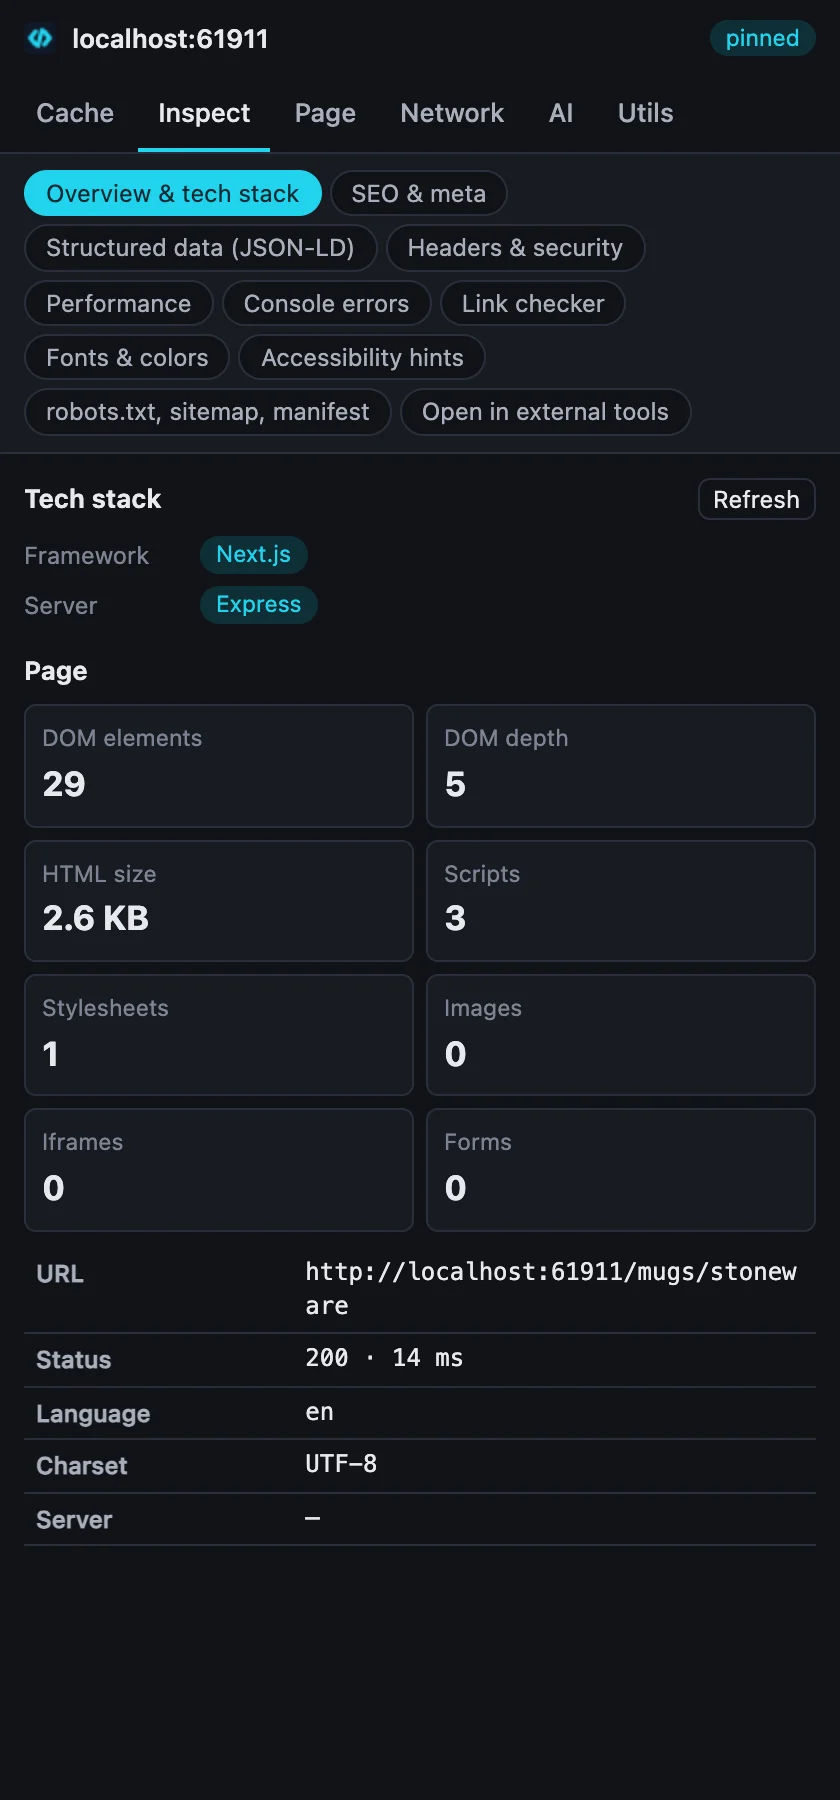
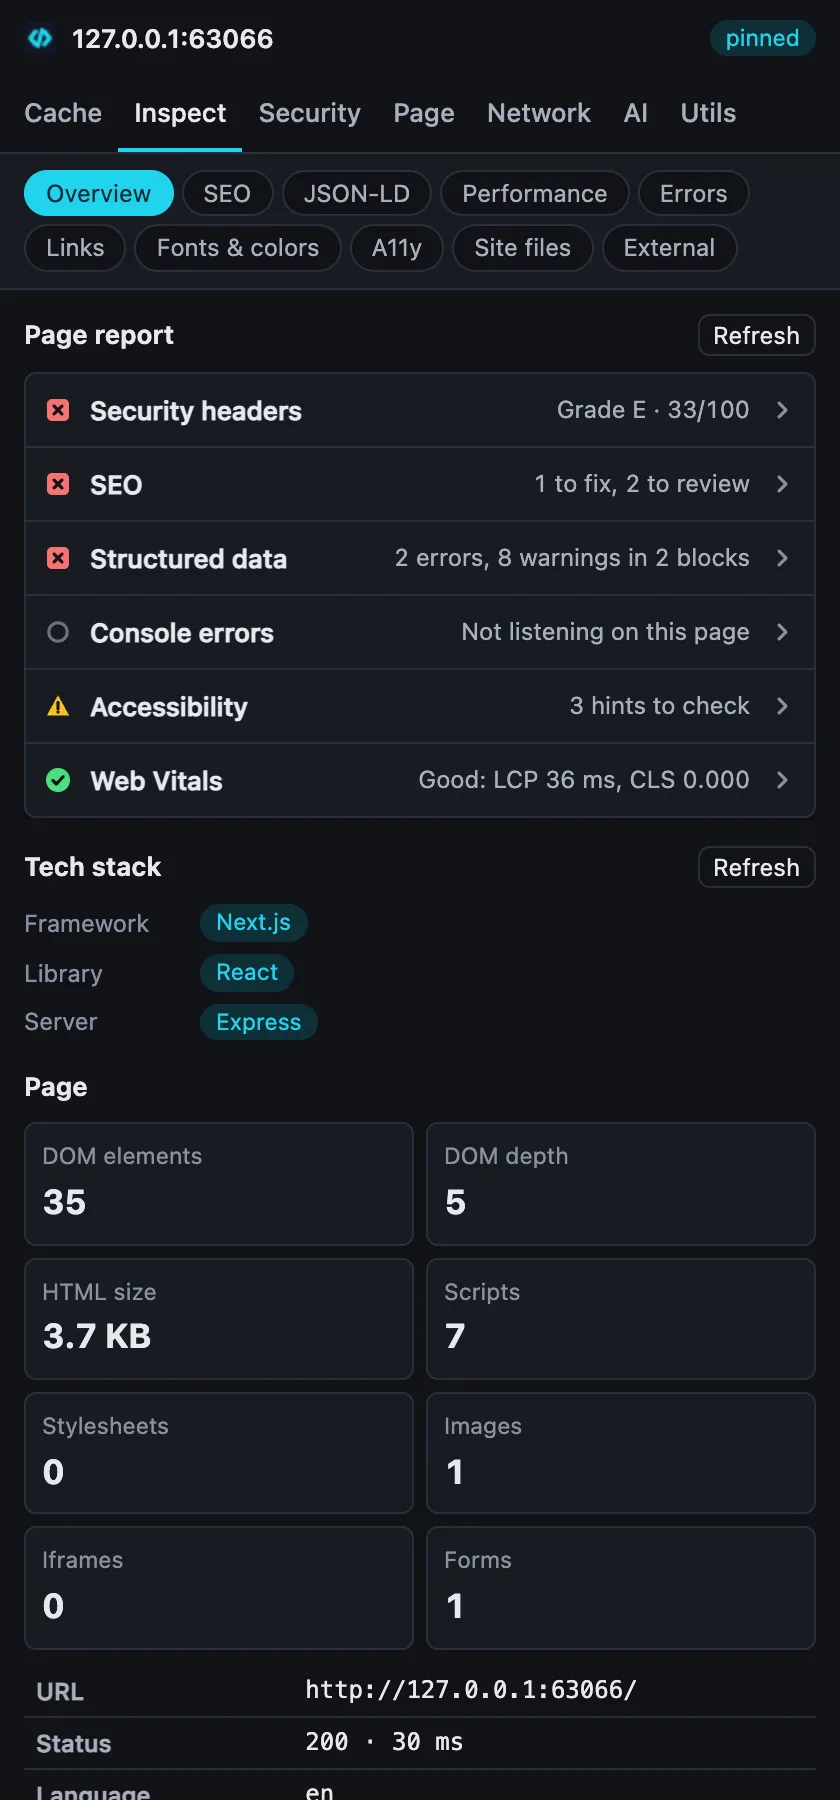
docs(site): seven tabs, the page report and the Security tab in the tour

diff --git a/site/index.html b/site/index.html
@@ -113,23 +113,24 @@
 
       <section id="tour" class="tour" aria-labelledby="tour-title">
         <div class="sec-head">
-          <h2 id="tour-title">Six tabs. The tools you open forty times a day.</h2>
+          <h2 id="tour-title">Seven tabs. The tools you open forty times a day.</h2>
           <p>The same tab bar as the extension. Pick one.</p>
         </div>
         <div class="tour-body">
           <div class="tabs" role="tablist" aria-label="devkit tabs">
             <button role="tab" id="t-cache" aria-controls="tp" aria-selected="false" data-cat="cache">Cache</button>
             <button role="tab" id="t-inspect" aria-controls="tp" aria-selected="true" data-cat="inspect">Inspect</button>
+            <button role="tab" id="t-security" aria-controls="tp" aria-selected="false" data-cat="security">Security</button>
             <button role="tab" id="t-page" aria-controls="tp" aria-selected="false" data-cat="page">Page</button>
             <button role="tab" id="t-network" aria-controls="tp" aria-selected="false" data-cat="network">Network</button>
             <button role="tab" id="t-ai" aria-controls="tp" aria-selected="false" data-cat="ai">AI</button>
             <button role="tab" id="t-utils" aria-controls="tp" aria-selected="false" data-cat="utils">Utils</button>
           </div>
           <div id="tp" class="tab-panel" role="tabpanel" aria-labelledby="t-inspect" tabindex="0">
-            <img id="tour-shot" src="img/panel-headers.webp" width="420" height="900" alt="devkit Inspect tab: headers and security grade." />
+            <img id="tour-shot" src="img/panel-overview.webp" width="420" height="900" alt="devkit Inspect tab: the page report, one row per area with its status." />
             <div class="tab-copy">
               <h3 id="tour-title-cat">Inspect</h3>
-              <p id="tour-lede">What the page ships, read from the page itself: stack, SEO, structured data, headers, Web Vitals, errors, links.</p>
+              <p id="tour-lede">What the page ships, read from the page itself: a page report, stack, SEO, structured data, Web Vitals, errors, links.</p>
               <ul id="tour-list" class="tool-list"></ul>
             </div>
           </div>

diff --git a/site/app.js b/site/app.js
@@ -137,8 +137,9 @@ if (input) {
 /* Tour */
 const TOUR = {
   cache: { shot: "panel-cache", alt: "devkit Cache tab: cache and storage actions.", lede: "Clear exactly what you mean to clear, for this origin only, then reload. Edit cookies and Web Storage in place." },
-  inspect: { shot: "panel-headers", alt: "devkit Inspect tab: headers and security grade.", lede: "What the page ships, read from the page itself: stack, SEO, structured data, headers, Web Vitals, errors, links." },
-  page: { shot: "panel-page", alt: "devkit Page tab: emulation of color scheme, motion, CPU and network.", lede: "Bend the page without touching its code: edit it, outline it, strip its CSS, emulate media and slow networks, capture it." },
+  inspect: { shot: "panel-overview", alt: "devkit Inspect tab: the page report, one row per area with its status.", lede: "What the page ships, read from the page itself: a page report, stack, SEO, structured data, Web Vitals, errors, links." },
+  security: { shot: "panel-security", alt: "devkit Security tab: a Stripe live secret key found in an inline script, masked.", lede: "What an attacker would look at first: header grade, secrets shipped to the browser, source maps and exposed files, third parties, CSP." },
+  page: { shot: "panel-page", alt: "devkit Page tab: emulation of color scheme, motion, CPU and network.", lede: "Pick an element and hand its component, file:line, props and styles to your coding agent. Then bend the page: edit it, outline it, strip its CSS, emulate media and slow networks, capture it." },
   network: { shot: "panel-network", alt: "devkit Network tab: local, staging and prod environments.", lede: "Rewrite requests with Chrome's own rule engine, and jump between local, staging and prod on the same path." },
   ai: { shot: "panel-ai", alt: "devkit AI tab: a structured data review by Claude.", lede: "Analyses and chat with the model you choose, fed with the data the other tabs collect." },
   utils: { shot: "panel-utils", alt: "devkit Utils tab: JSON converted to TypeScript types.", lede: "The small converters you otherwise paste into random websites, offline and private." },
